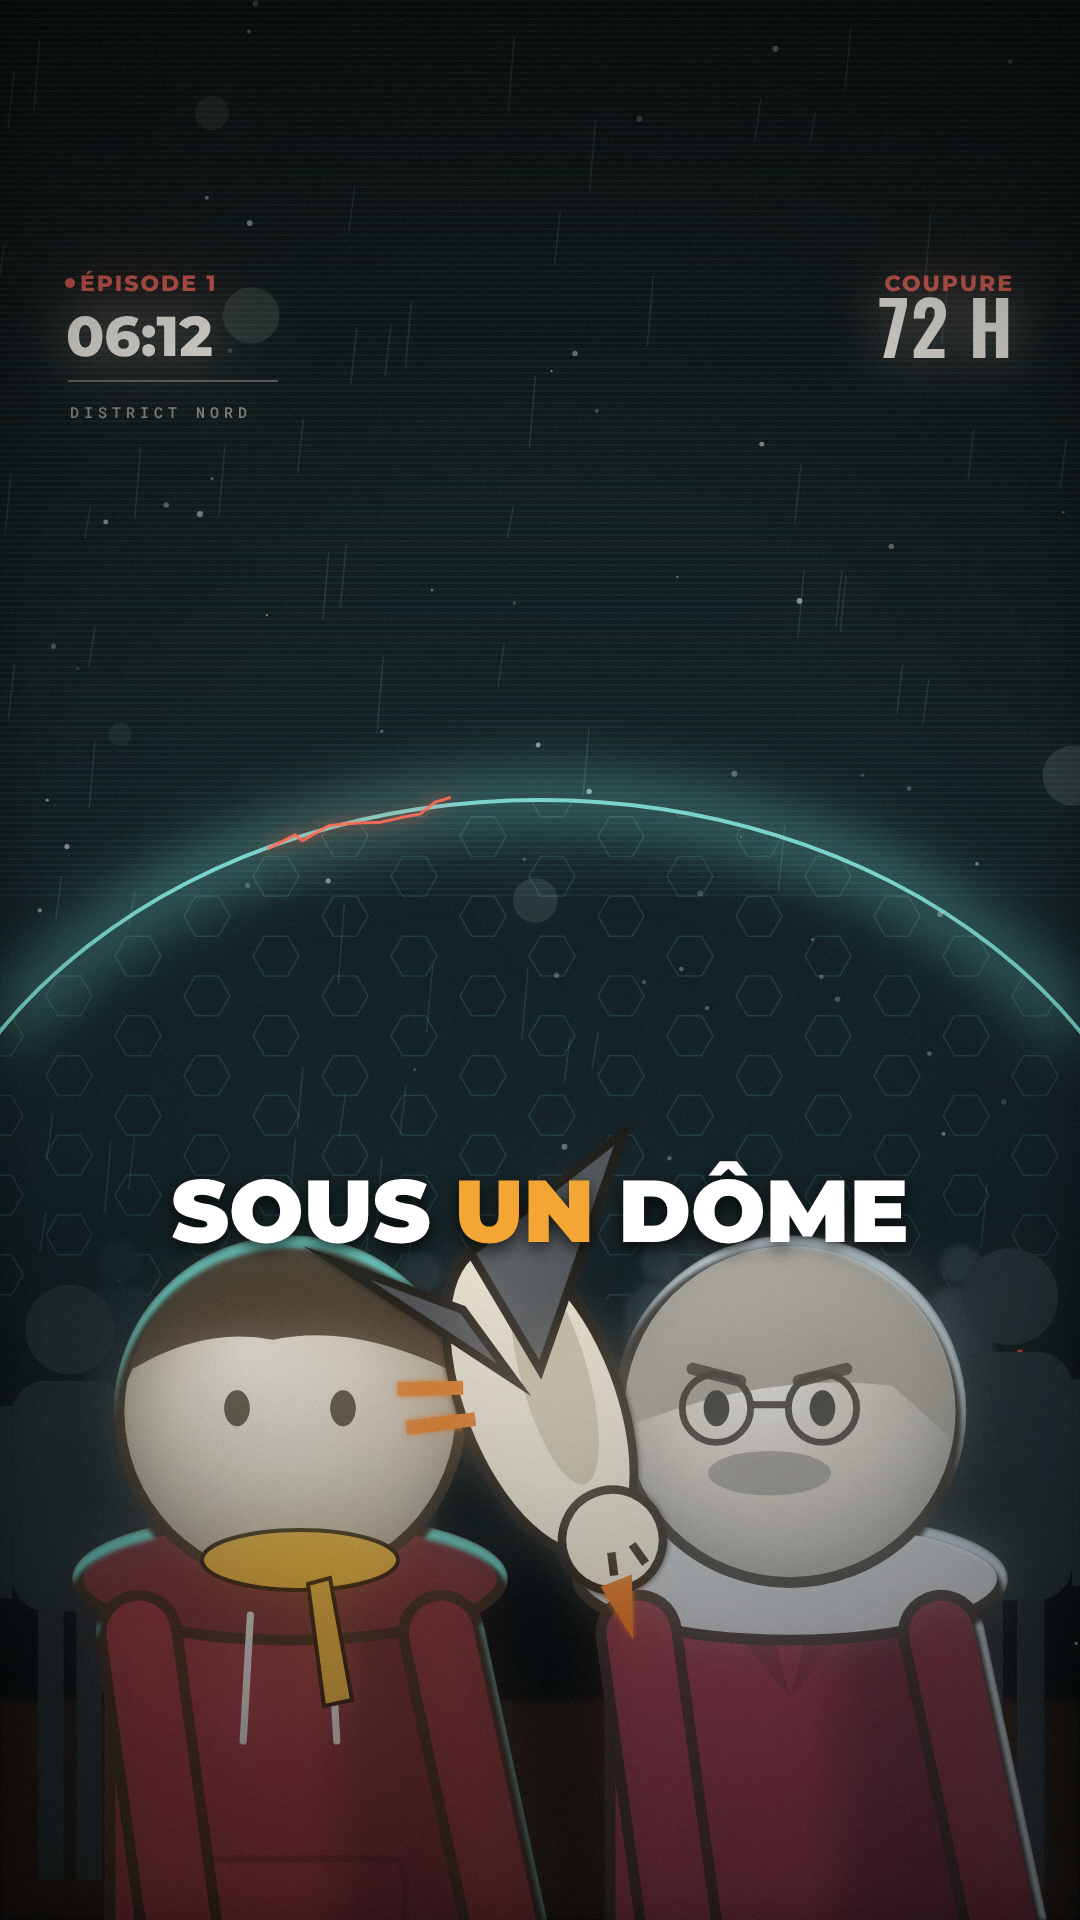
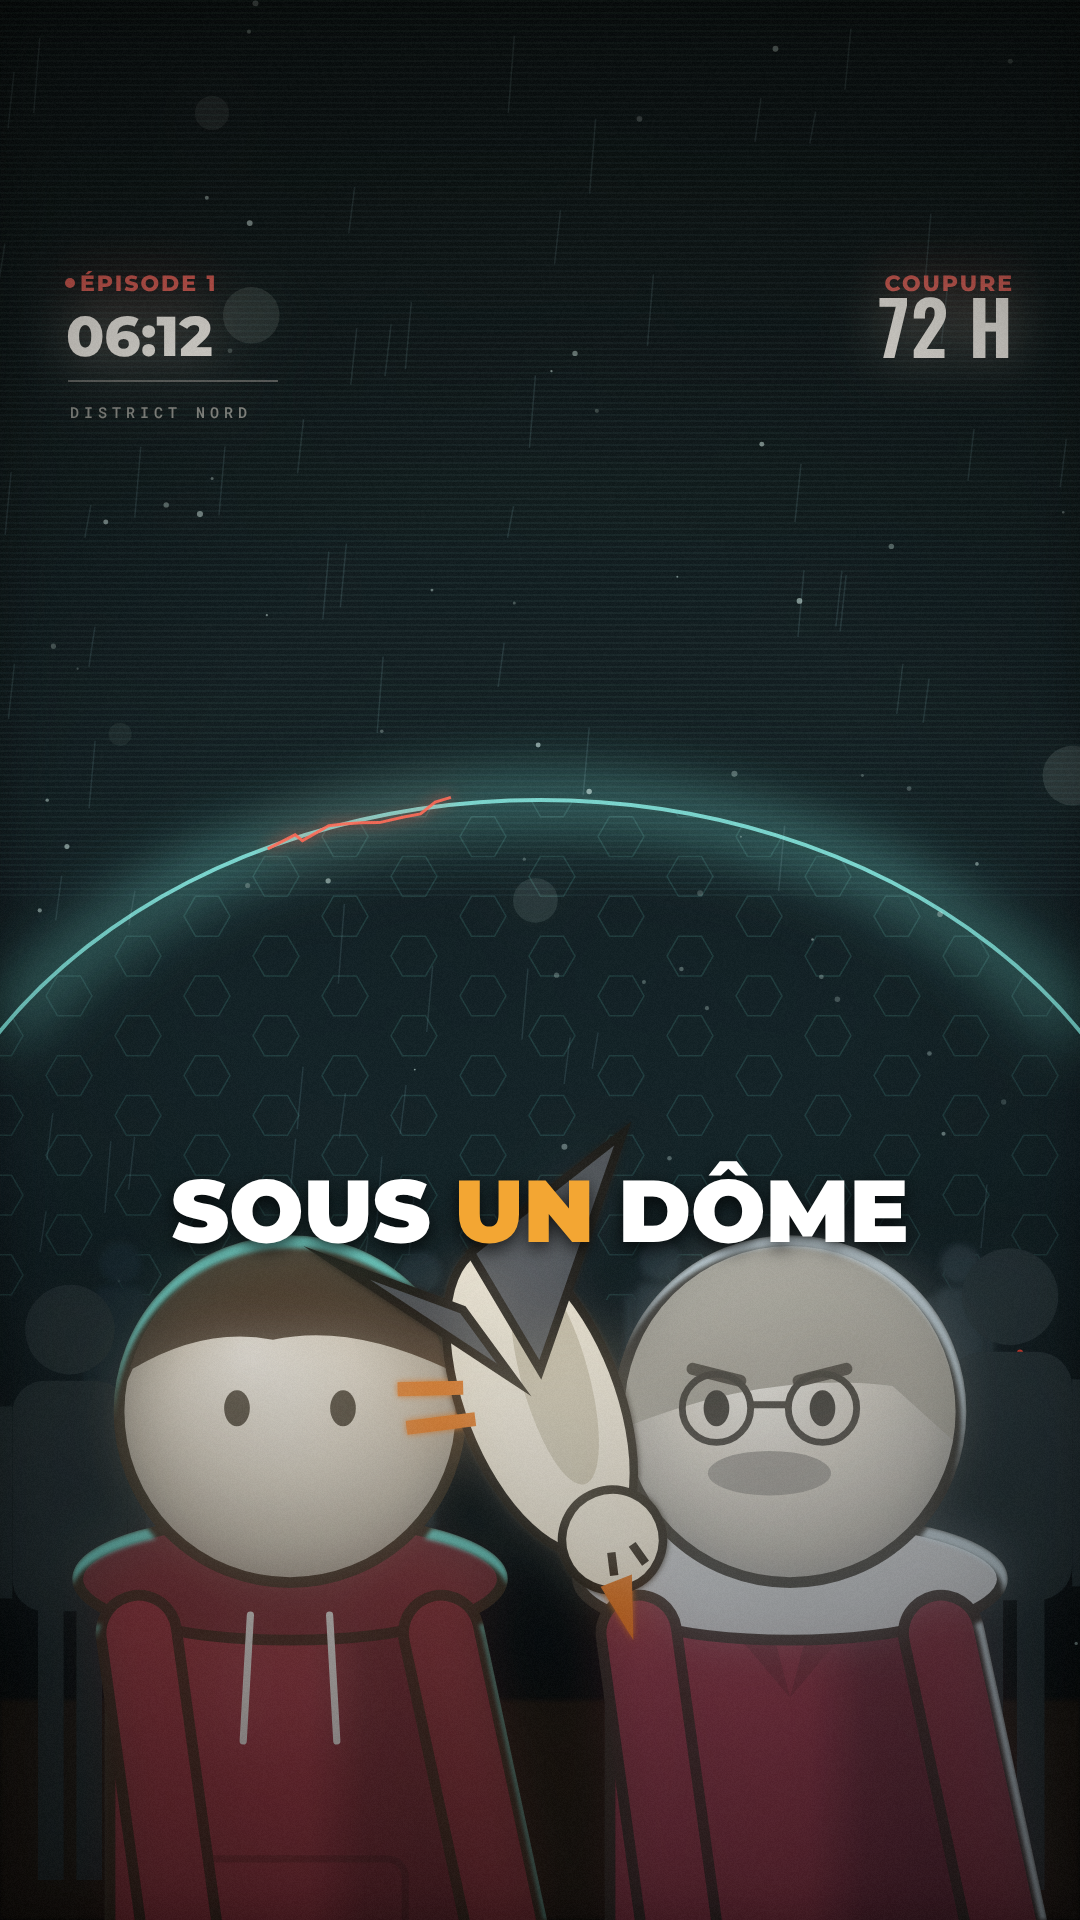
couronne-ep01 : plan 2 — retrait de l'écharpe ocre (repérage du fils à venir par couvre-chef)
Claude-Session: https://claude.ai/code/session_0151hKPePi5KPXjL7mUCuxno

Changed region(s): [[0.1833, 0.7812, 0.3667, 0.9062]]

diff --git a/productions/couronne-ep01/rendu_v3/scenes.js b/productions/couronne-ep01/rendu_v3/scenes.js
@@ -772,9 +772,6 @@ S.p02h_buste_vivant = g => {                              // image 2 v13
   crowdStanding(g);
   actor(g, 790, 2650, 1.8, { ...PERE, body: "#7a1f30", bodyDark: "#4a1220", look: -0.12, arms: [[-1, 10], [1, 10]] }, { rim: "#cfe3ee", rimAng: -1.2, rimW: 7, key: "#dfe9ef", shadow: false });   // père, côté droit
   actor(g, 290, 2650, 1.8, { ...HERO, body: "#7a1f30", bodyDark: "#4a1220", ring: "#5a1826", look: 0.0, arms: [[-1, 10], [1, 10]] }, { rim: TEAL, rimAng: -1.57, rimW: 7, key: "#ffd9a0", shadow: false });
-  g.fillStyle = "#d9a33a"; g.strokeStyle = INK; g.lineWidth = 4;                 // écharpe ocre du fils : repère visuel
-  g.beginPath(); g.ellipse(300, 1560, 98, 30, 0, 0, 7); g.fill(); g.stroke();
-  g.beginPath(); g.moveTo(330, 1578); g.lineTo(352, 1700); g.lineTo(324, 1706); g.lineTo(308, 1584); g.closePath(); g.fill(); g.stroke();
   pigeon(g, 540, 1400, 2.8, 1.2, 3);
   pigeon(g, 540, 1400, 2.8, 1.2, 0);
   hud(g); finish(g, { bloom: 0.35, grade: ["#06202a", "#ffd9a0", 0.16] }); caption(g, ["SOUS", "UN", "DÔME"], 1);
@@ -788,9 +785,6 @@ S.p02i_sol_vivant = g => {                                // image 3 v13
   actor(g, 790, 2650, 1.8, { ...PERE, body: "#7a1f30", bodyDark: "#4a1220", look: -0.12, arms: [[-1, 10], [1, 10]] }, { rim: "#cfe3ee", rimAng: -1.2, rimW: 7, key: "#dfe9ef", shadow: false });   // père, côté droit
   actor(g, 290, 2650, 1.8, { ...HERO, body: "#7a1f30", bodyDark: "#4a1220", ring: "#5a1826", look: 0.0, arms: [[-1, 10], [1, 10]] }, { rim: TEAL, rimAng: -1.57, rimW: 7, key: "#ffd9a0", shadow: false });
   g.fillStyle = "rgba(0,0,0,0.4)"; g.beginPath(); g.ellipse(880, 1852, 90, 12, 0, 0, 7); g.fill();
-  g.fillStyle = "#d9a33a"; g.strokeStyle = INK; g.lineWidth = 4;                 // écharpe ocre du fils : repère visuel
-  g.beginPath(); g.ellipse(300, 1560, 98, 30, 0, 0, 7); g.fill(); g.stroke();
-  g.beginPath(); g.moveTo(330, 1578); g.lineTo(352, 1700); g.lineTo(324, 1706); g.lineTo(308, 1584); g.closePath(); g.fill(); g.stroke();
   pigeon(g, 560, 1860, 2.0, 1.45, 0);
   hud(g); finish(g, { bloom: 0.35, grade: ["#06202a", "#ffd9a0", 0.16] }); caption(g, ["MAGNÉTIQUE."], 0);
 };
